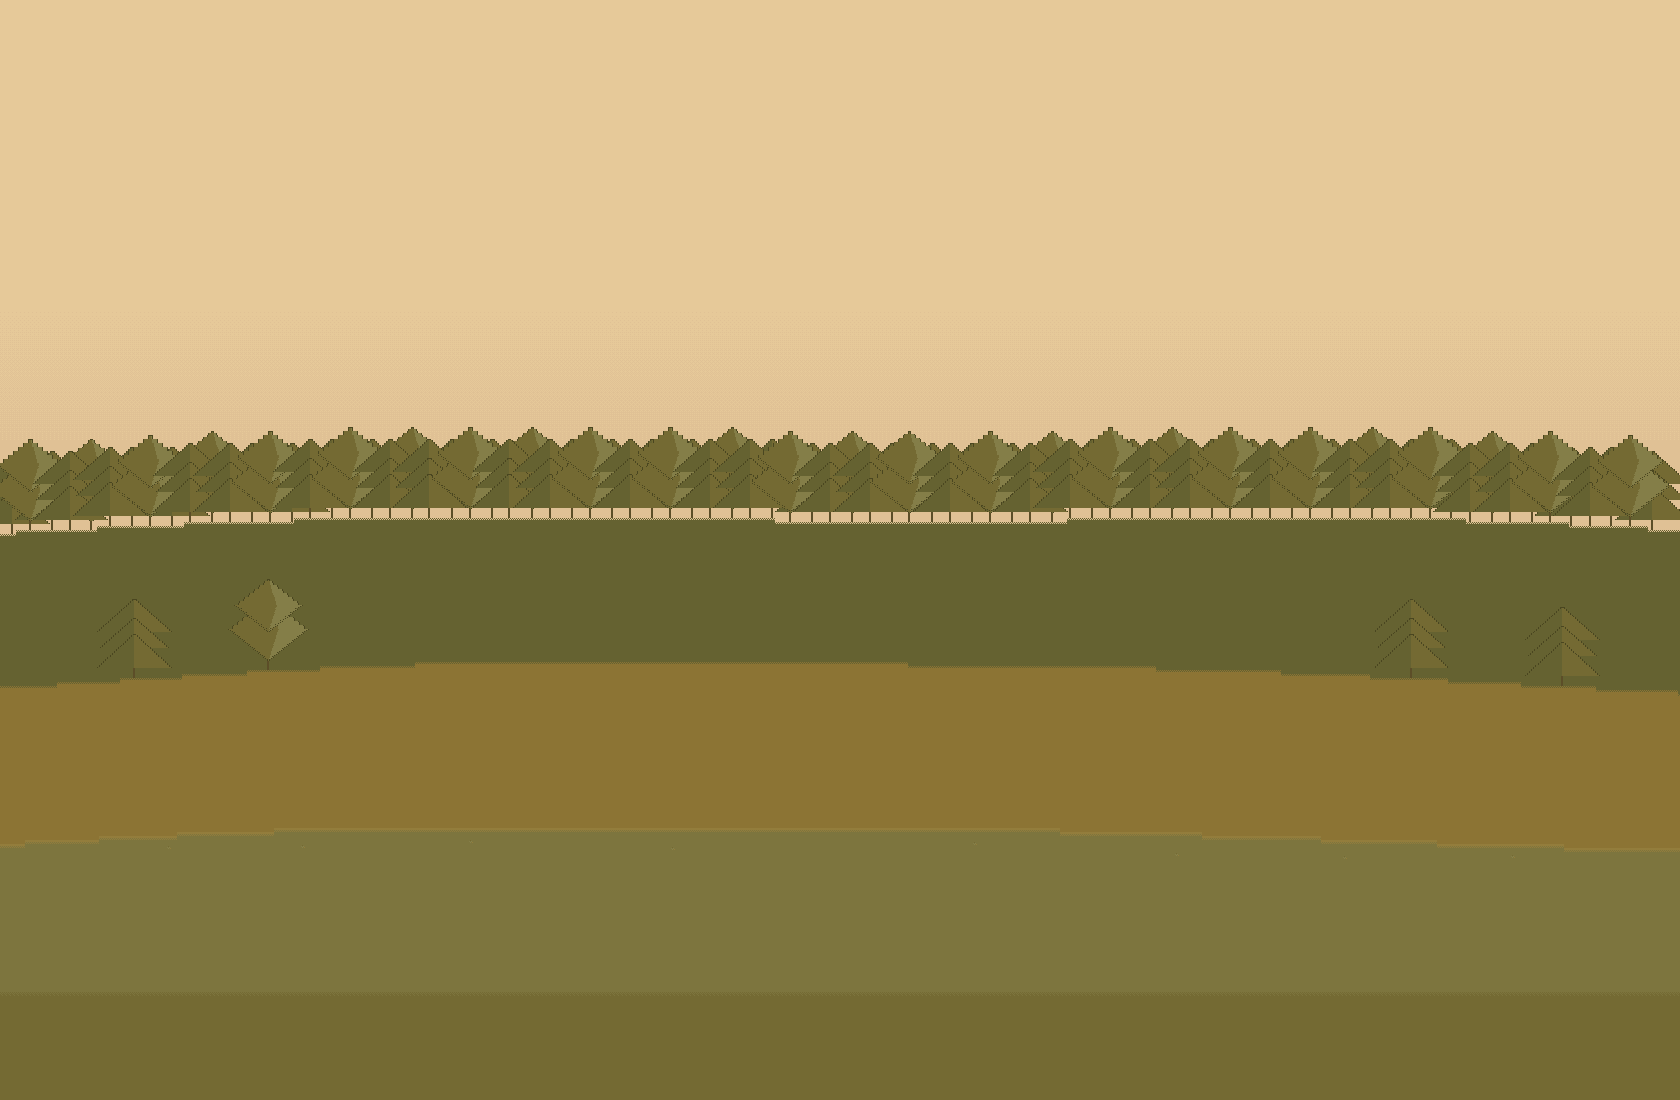
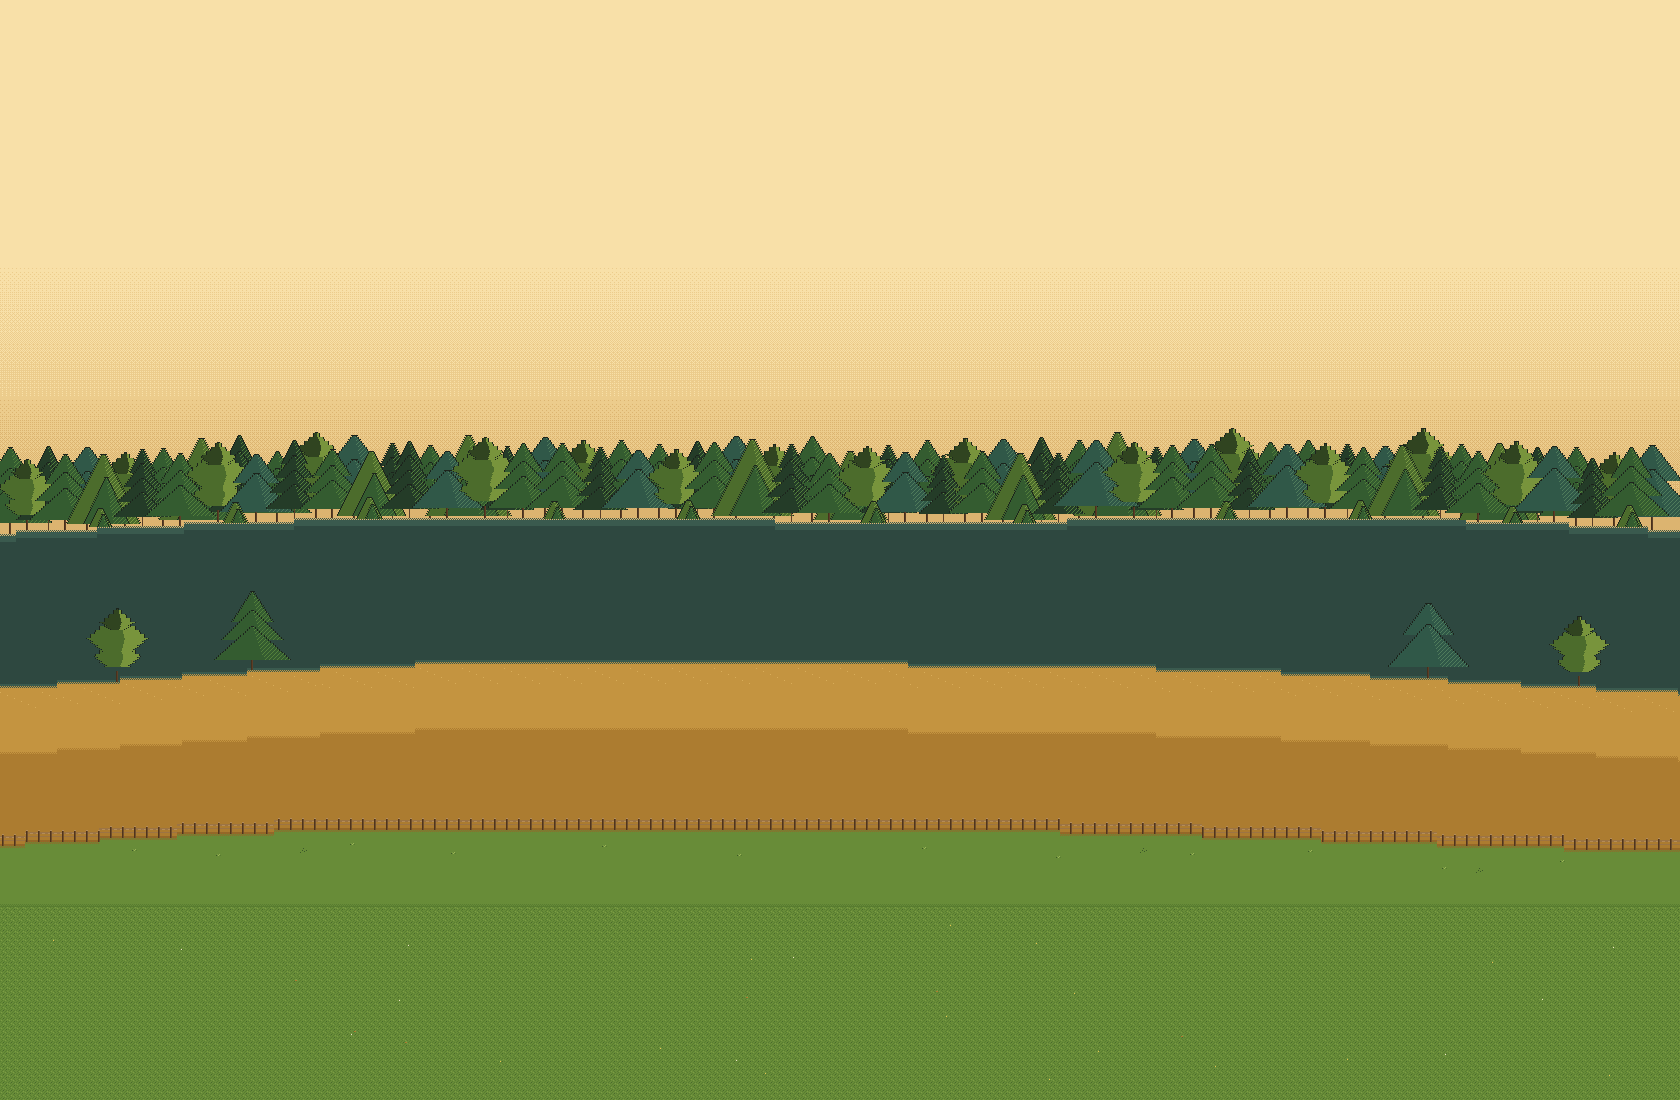
Give the 1990s hill a 16-bit SNES palette.
Mixed pine/oak/cedar sprites, a wooden fence on the ridge, and tiled
grass with tufts and flowers so the field is not one olive wash.

diff --git a/components/hero-backdrop.tsx b/components/hero-backdrop.tsx
@@ -40,7 +40,7 @@ export function HeroBackdrop() {
         />
         <img
           className="hero-backdrop-1990s-plate hero-backdrop-1990s-phone"
-          src="/hero/hero-1990s-hill.png?v=flat1"
+          src="/hero/hero-1990s-hill.png?v=pal1"
           width={760}
           height={1650}
           alt=""
@@ -48,7 +48,7 @@ export function HeroBackdrop() {
         />
         <img
           className="hero-backdrop-1990s-plate hero-backdrop-1990s-md"
-          src="/hero/hero-1990s-hill-md.png?v=flat1"
+          src="/hero/hero-1990s-hill-md.png?v=pal1"
           width={1400}
           height={1800}
           alt=""
@@ -56,7 +56,7 @@ export function HeroBackdrop() {
         />
         <img
           className="hero-backdrop-1990s-plate hero-backdrop-1990s-wide"
-          src="/hero/hero-1990s-hill-wide.png?v=flat1"
+          src="/hero/hero-1990s-hill-wide.png?v=pal1"
           width={1680}
           height={1100}
           alt=""
